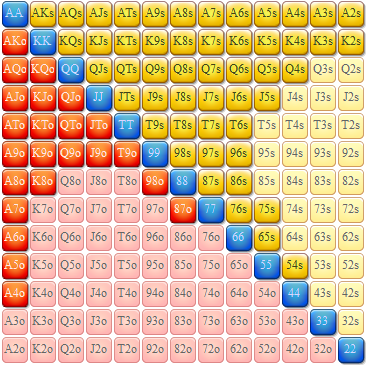
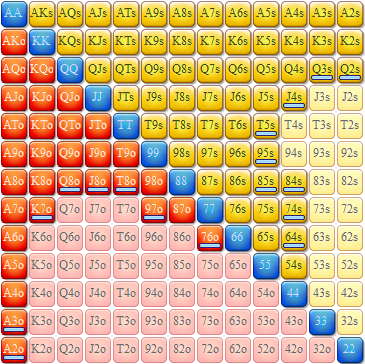
added augmented BTN RFI range

diff --git a/js/structure.js b/js/structure.js
@@ -153,7 +153,7 @@ const struct = {
       ['LJ 2,5bb', '15,1%'],
       ['HJ 2,5bb', '19,5%'],
       ['CO 2,5bb', '26,7%'],
-      ['BU 2,1bb', '41,8%'],
+      ['BU 2,1bb', '41,8%-51,7% <br> Grey: vs sum of resteals &lt;30%'],
       ['SB 3bb', '41,8%'],
       ['SB 2,5bb fe65%+', '56,9%'],
     ],
